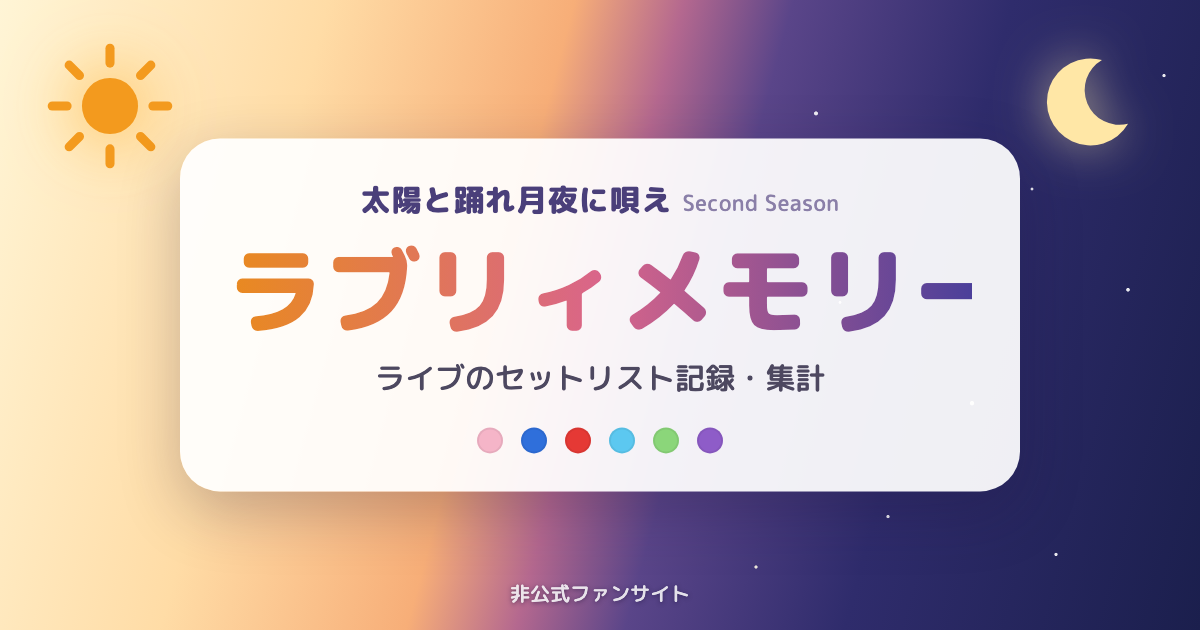
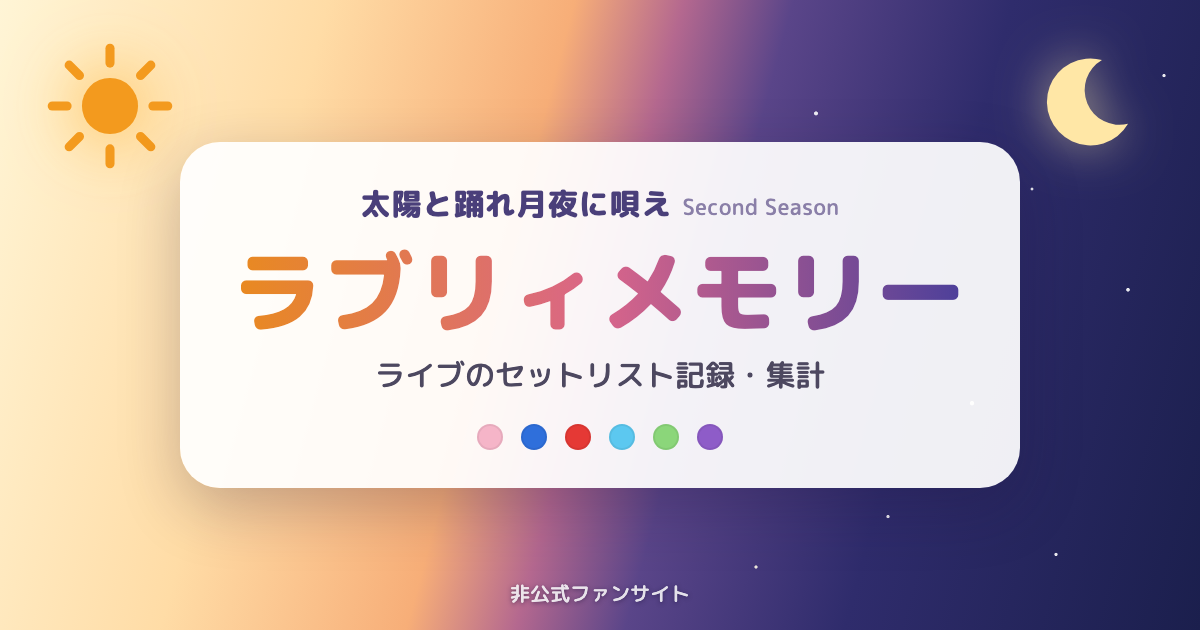
Fix the clipped long vowel at the end of the og.png title
background-clip: text only paints inside the element box, and the title was
wider than its box, so the tail of ー was transparent. Size the box to the text
and make the title a little smaller.

diff --git a/tools/og/og.html b/tools/og/og.html
@@ -48,9 +48,12 @@
   }
   .group { font-size: 30px; font-weight: 800; color: #4a3f7a; letter-spacing: 0.04em; }
   .group small { font-size: 22px; font-weight: 500; color: #8a7fa8; margin-left: 10px; letter-spacing: 0.02em; }
+  /* background-clip: text のグラデーションは要素の箱の中にしか塗られないので、
+     箱を文字の幅に合わせ（inline-block）、カードからはみ出さない大きさにする */
   h1 {
+    display: inline-block;
     margin-top: 10px;
-    font-size: 96px; font-weight: 800; line-height: 1.2; letter-spacing: 0.02em; white-space: nowrap;
+    font-size: 90px; font-weight: 800; line-height: 1.2; letter-spacing: 0.02em; white-space: nowrap;
     background: linear-gradient(90deg, #e98a1f 0%, #d9658a 50%, #4b3f9a 100%);
     -webkit-background-clip: text; background-clip: text; color: transparent;
   }
